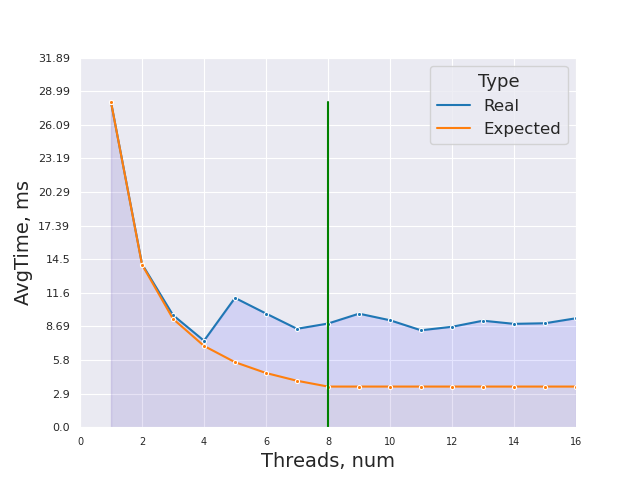
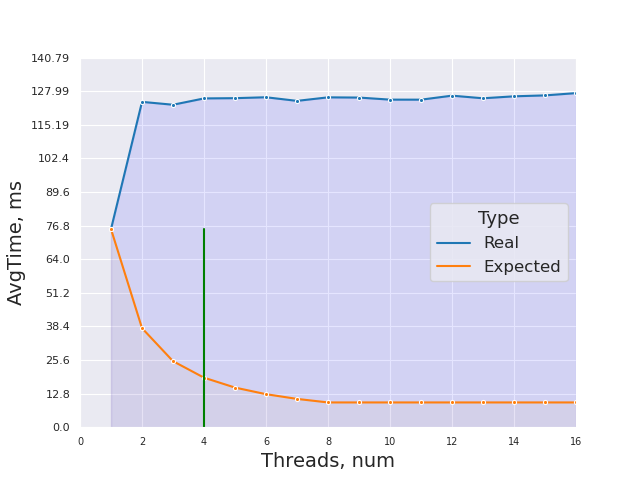
juj

diff --git a/lab4/graphs/timing.py b/lab4/graphs/timing.py
@@ -1,1 +1,1 @@
-ts = [(1, 0.0280969), (2, 0.0141143), (3, 0.00966613), (4, 0.0074183), (5, 0.0113534), (6, 0.0100988), (7, 0.00887653), (8, 0.0102185), (9, 0.0101375), (10, 0.0114286), (11, 0.00853158), (12, 0.00911511), (13, 0.00926581), (14, 0.0086768), (15, 0.00945669), (16, 0.0100147), ]
+ts = [(1, 0.0278936), (2, 0.0140915), (3, 0.00979835), (4, 0.00740388), (5, 0.00782308), (6, 0.00791474), (7, 0.00760887), (8, 0.00819357), (9, 0.00834873), (10, 0.00794315), (11, 0.00790041), (12, 0.00886805), (13, 0.00844624), (14, 0.00820069), (15, 0.00816008), (16, 0.00789824), ]

diff --git a/lab4/graphs/graph.py b/lab4/graphs/graph.py
@@ -82,8 +82,5 @@ get_plot(
     argv[1],
     all_ts,
     max(ts_ds[0][1], exp_ts[0][1]),
+    4
 )
-#plt.clf()
-
-#print(all_ts)
-#p = sns.lineplot(x="Threads", y="AvgTime", hue="Type", marker=".", data=all_ts)

diff --git a/lab4/lab4.md b/lab4/lab4.md
@@ -4,7 +4,7 @@
   Kernel: 6.0.2-arch1-1 arch: x86_64 bits: 64 compiler: gcc v: 12.2.0
     Desktop: GNOME v: 42.5 Distro: Arch Linux
 Memory:
-  RAM: total: 15.57 GiB used: 3.1 GiB (19.9%)
+  RAM: total: 15.57 GiB used: 2.78 GiB (17.8%)
   Array-1: capacity: 32 GiB slots: 4 EC: None max-module-size: 8 GiB
     note: est.
   Device-1: DIMM_A1 type: no module installed
@@ -14,8 +14,8 @@ Memory:
 CPU:
   Info: quad core model: Intel Core i5-4690 bits: 64 type: MCP arch: Haswell
     rev: 3 cache: L1: 256 KiB L2: 1024 KiB L3: 6 MiB
-  Speed (MHz): avg: 3492 min/max: 800/3900 cores: 1: 3492 2: 3492 3: 3492
-    4: 3492 bogomips: 27945
+  Speed (MHz): avg: 3492 high: 3493 min/max: 800/3900 cores: 1: 3492 2: 3492
+    3: 3493 4: 3493 bogomips: 27945
   Flags: avx avx2 ht lm nx pae sse sse2 sse3 sse4_1 sse4_2 ssse3 vmx
 OpenMP:
 	gcc: 201511
